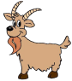
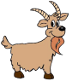
add goat

diff --git a/src/de/timweb/ld48/villain/util/ImageLoader.java b/src/de/timweb/ld48/villain/util/ImageLoader.java
@@ -31,6 +31,7 @@ public class ImageLoader {
 	public static BufferedImage special_ice_trans;
 	public static BufferedImage special_fire;
 	public static BufferedImage special_fire_trans;
+	public static BufferedImage goat;
 
 	public static BufferedImage bg_world;
 	public static BufferedImage top_world;
@@ -88,6 +89,8 @@ public class ImageLoader {
 			special_ice_trans = readImage("special_ice_trans.png");
 			special_fire = readImage("special_fire.png");
 			special_fire_trans = readImage("special_fire_trans.png");
+			
+			goat = readImage("goat.png");
 
 			// Worldlevel
 			bg_world = readImage("bg_world.png");

diff --git a/src/de/timweb/ld48/villain/level/StartLevel.java b/src/de/timweb/ld48/villain/level/StartLevel.java
@@ -45,6 +45,9 @@ public class StartLevel extends BodyLevel {
 		g.drawImage(ImageLoader.shade, 0, 0, null);
 		g.drawImage(ImageLoader.shade, 0, 0, null);
 
+		g.drawImage(ImageLoader.goat, 0,
+				VillainCanvas.HEIGHT - 81, null);
+
 		if (g instanceof Graphics2D) {
 			Graphics2D g2d = (Graphics2D) g;
 			try {

diff --git a/src/de/timweb/ld48/villain/level/WorldLevel.java b/src/de/timweb/ld48/villain/level/WorldLevel.java
@@ -96,6 +96,9 @@ public class WorldLevel extends Level {
 			
 			g.setFont(VillainCanvas.font_Big);
 			g.drawString("Thanks for Playing!", VillainCanvas.WIDTH/2-50, VillainCanvas.HEIGHT-50);
+			
+			g.drawImage(ImageLoader.goat, 0,
+					VillainCanvas.HEIGHT - 81, null);
 		}
 	}
 
